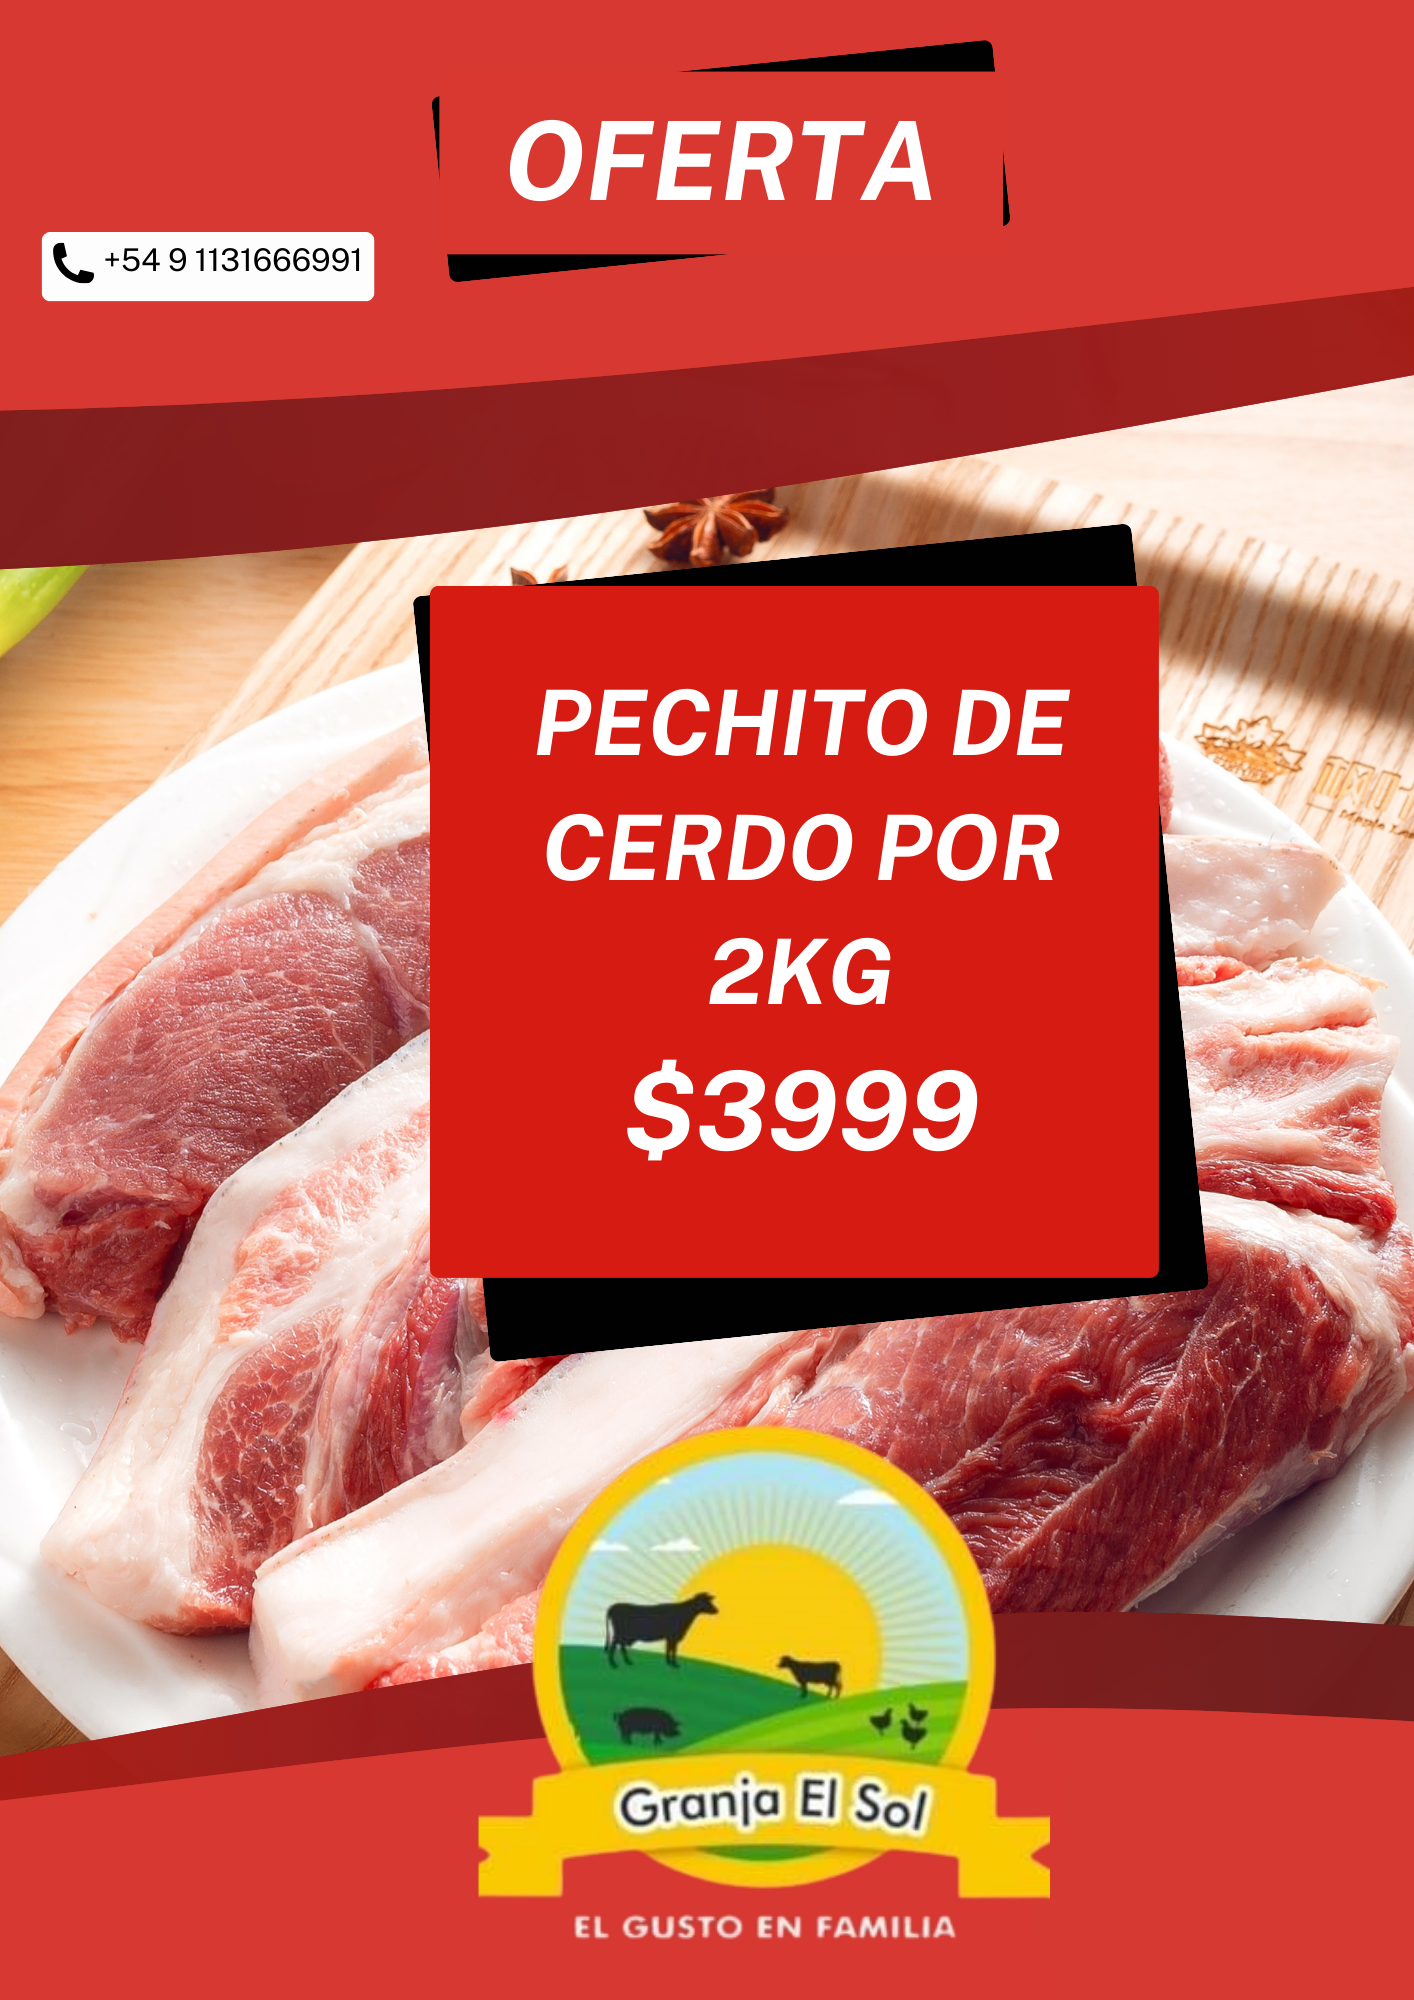
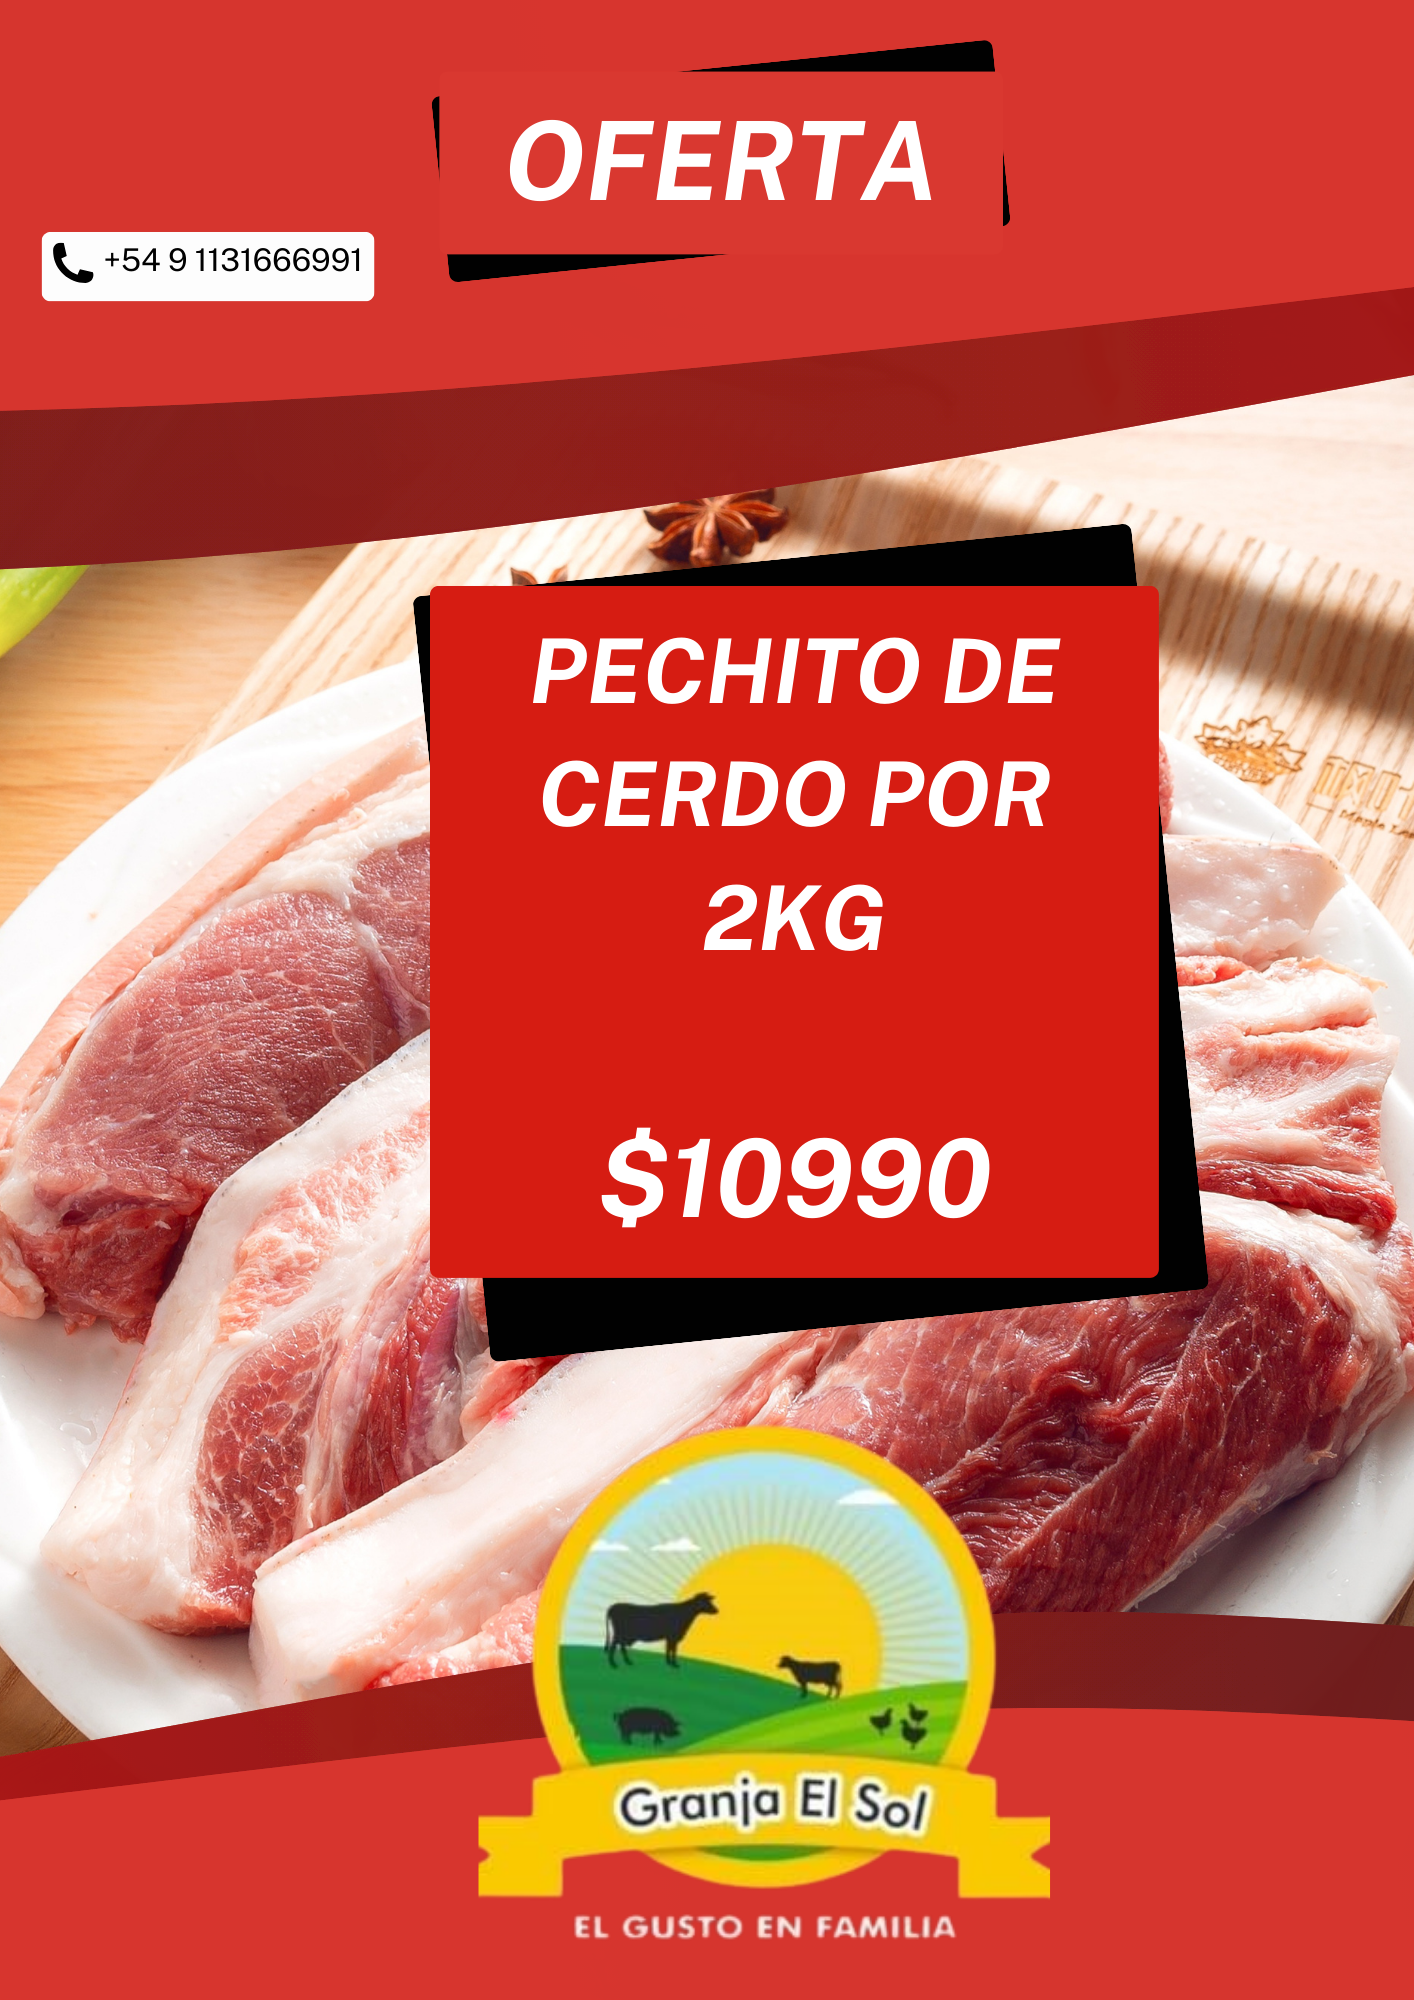
add oferta y precios

Changed region(s): [[0.3734, 0.31, 0.7468, 0.62]]

diff --git a/src/Components/Productos.jsx b/src/Components/Productos.jsx
@@ -58,7 +58,7 @@ const carne = [
     id: 2,
     image: `${americano}`,
     name: "Americano",
-    description: "$3289",
+    description: "$6790",
   },
   {
     id: 3,
@@ -70,7 +70,7 @@ const carne = [
     id: 4,
     image: `${entraña}`,
     name: "Entraña",
-    description: "$4190",
+    description: "$7990",
   },
   {
     id: 1,
@@ -82,13 +82,13 @@ const carne = [
     id: 2,
     image: `${lomo}`,
     name: "Lomo",
-    description: "$4190",
+    description: "$8990",
   },
   {
     id: 3,
     image: `${bifeangosto}`,
     name: "Bife angosto",
-    description: "$3199",
+    description: "$5990",
   },
   {
     id: 4,
@@ -118,13 +118,13 @@ const carne = [
     id: 8,
     image: `${tapadenalga}`,
     name: "Tapa de nalga",
-    description: "$3289",
+    description: "$6790",
   },
   {
     id: 9,
     image: `${osobuco}`,
     name: "Osobuco",
-    description: "$1895",
+    description: "$2990",
   },
   {
     id: 10,
@@ -148,14 +148,14 @@ const carne = [
     id: 13,
     image: `${picaña}`,
     name: "Picaña",
-    description: "$3759",
+    description: "$7190",
   },
 
   {
     id: 14,
     image: `${colitacuadril}`,
     name: "Colita de cuadril",
-    description: "$4150",
+    description: "$7290",
   },
   {
     id: 15,
@@ -173,7 +173,7 @@ const carne = [
     id: 17,
     image: `${faldaparrillera}`,
     name: "Falda parrillera",
-    description: "$2250",
+    description: "$3889",
   },
   {
     id: 18,
@@ -197,7 +197,7 @@ const carne = [
     id: 21,
     image: `${espinazo}`,
     name: "Espinazo",
-    description: "$1669",
+    description: "$2700",
   },
   {
     id: 22,
@@ -221,13 +221,13 @@ const carne = [
     id: 25,
     image: `${miladecarne}`,
     name: "Milanesa de carne",
-    description: "$3689",
+    description: "$6990",
   },
   {
     id: 26,
     image: `${picada}`,
     name: "Picada",
-    description: "$2490",
+    description: "$5590",
   }
 ];
 
@@ -236,37 +236,37 @@ const cerdo = [
     id: 1,
     image: `${bondiola}`,
     name: "Bondiola",
-    description: "$3499",
+    description: "$8490",
   },
   {
     id: 2,
     image: `${carre}`,
     name: "Carre",
-    description: "$2189",
+    description: "$4990",
   },
   {
     id: 3,
     image: `${churrasquito}`,
     name: "Churrasquito",
-    description: "$3260",
+    description: "$6990",
   },
   {
     id: 4,
     image: `${lechon}`,
     name: "Lechon",
-    description: "$2000",
+    description: "$4000",
   },
   {
     id: 1,
     image: `${matambrito}`,
     name: "Matambrito",
-    description: "$3889",
+    description: "$8490",
   },
   {
     id: 2,
     image: `${pechito}`,
     name: "Pechito",
-    description: "$1889",
+    description: "$5750",
   },
 ];
 
@@ -275,37 +275,37 @@ const pollos = [
     id: 1,
     image: `${Alitas}`,
     name: "Alitas",
-    description: "$550",
+    description: "$1000",
   },
   {
     id: 2,
     image: `${mila}`,
     name: "Milanesa de pollo",
-    description: "$2249",
+    description: "$4290",
   },
   {
     id: 3,
     image: `${patamuslo}`,
     name: "Pata y muslo",
-    description: "$1199",
+    description: "$2290",
   },
   {
     id: 4,
     image: `${pechuga}`,
     name: "Pechuga",
-    description: "$1969",
+    description: "$4290",
   },
   {
     id: 1,
     image: `${pollo}`,
     name: "Pollo entero",
-    description: "$1099",
+    description: "$2050",
   },
   {
     id: 2,
     image: `${suprema}`,
     name: "Suprema",
-    description: "$2989",
+    description: "$5090",
   },
 ];
 

diff --git a/src/Components/About.jsx b/src/Components/About.jsx
@@ -26,7 +26,6 @@ function About() {
                         </div>
                     </div>
                 </div>
-
             </div>
         </div>
     )
